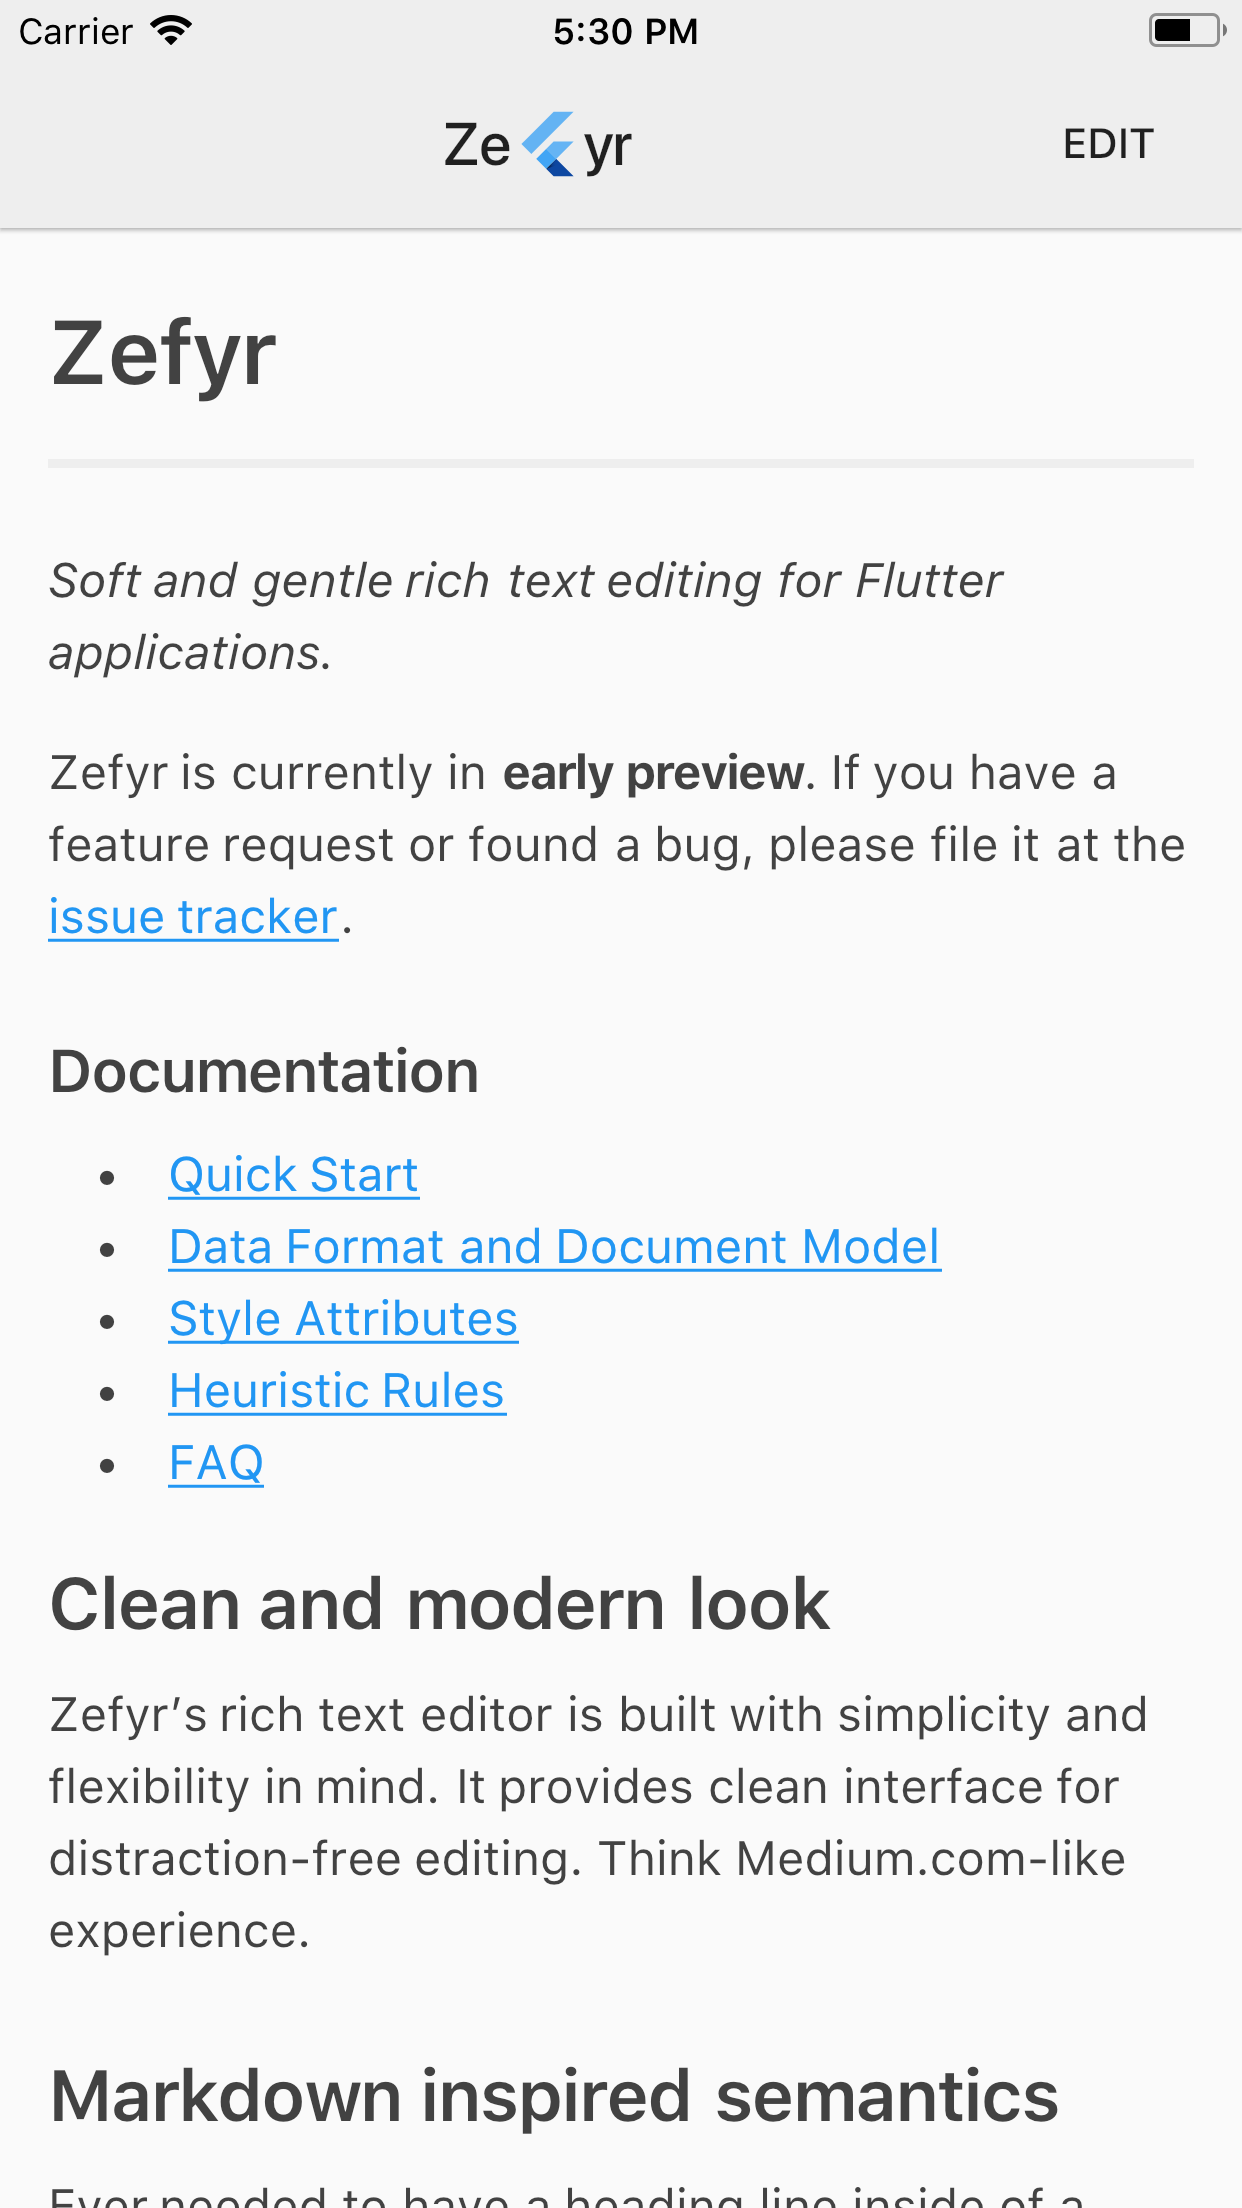
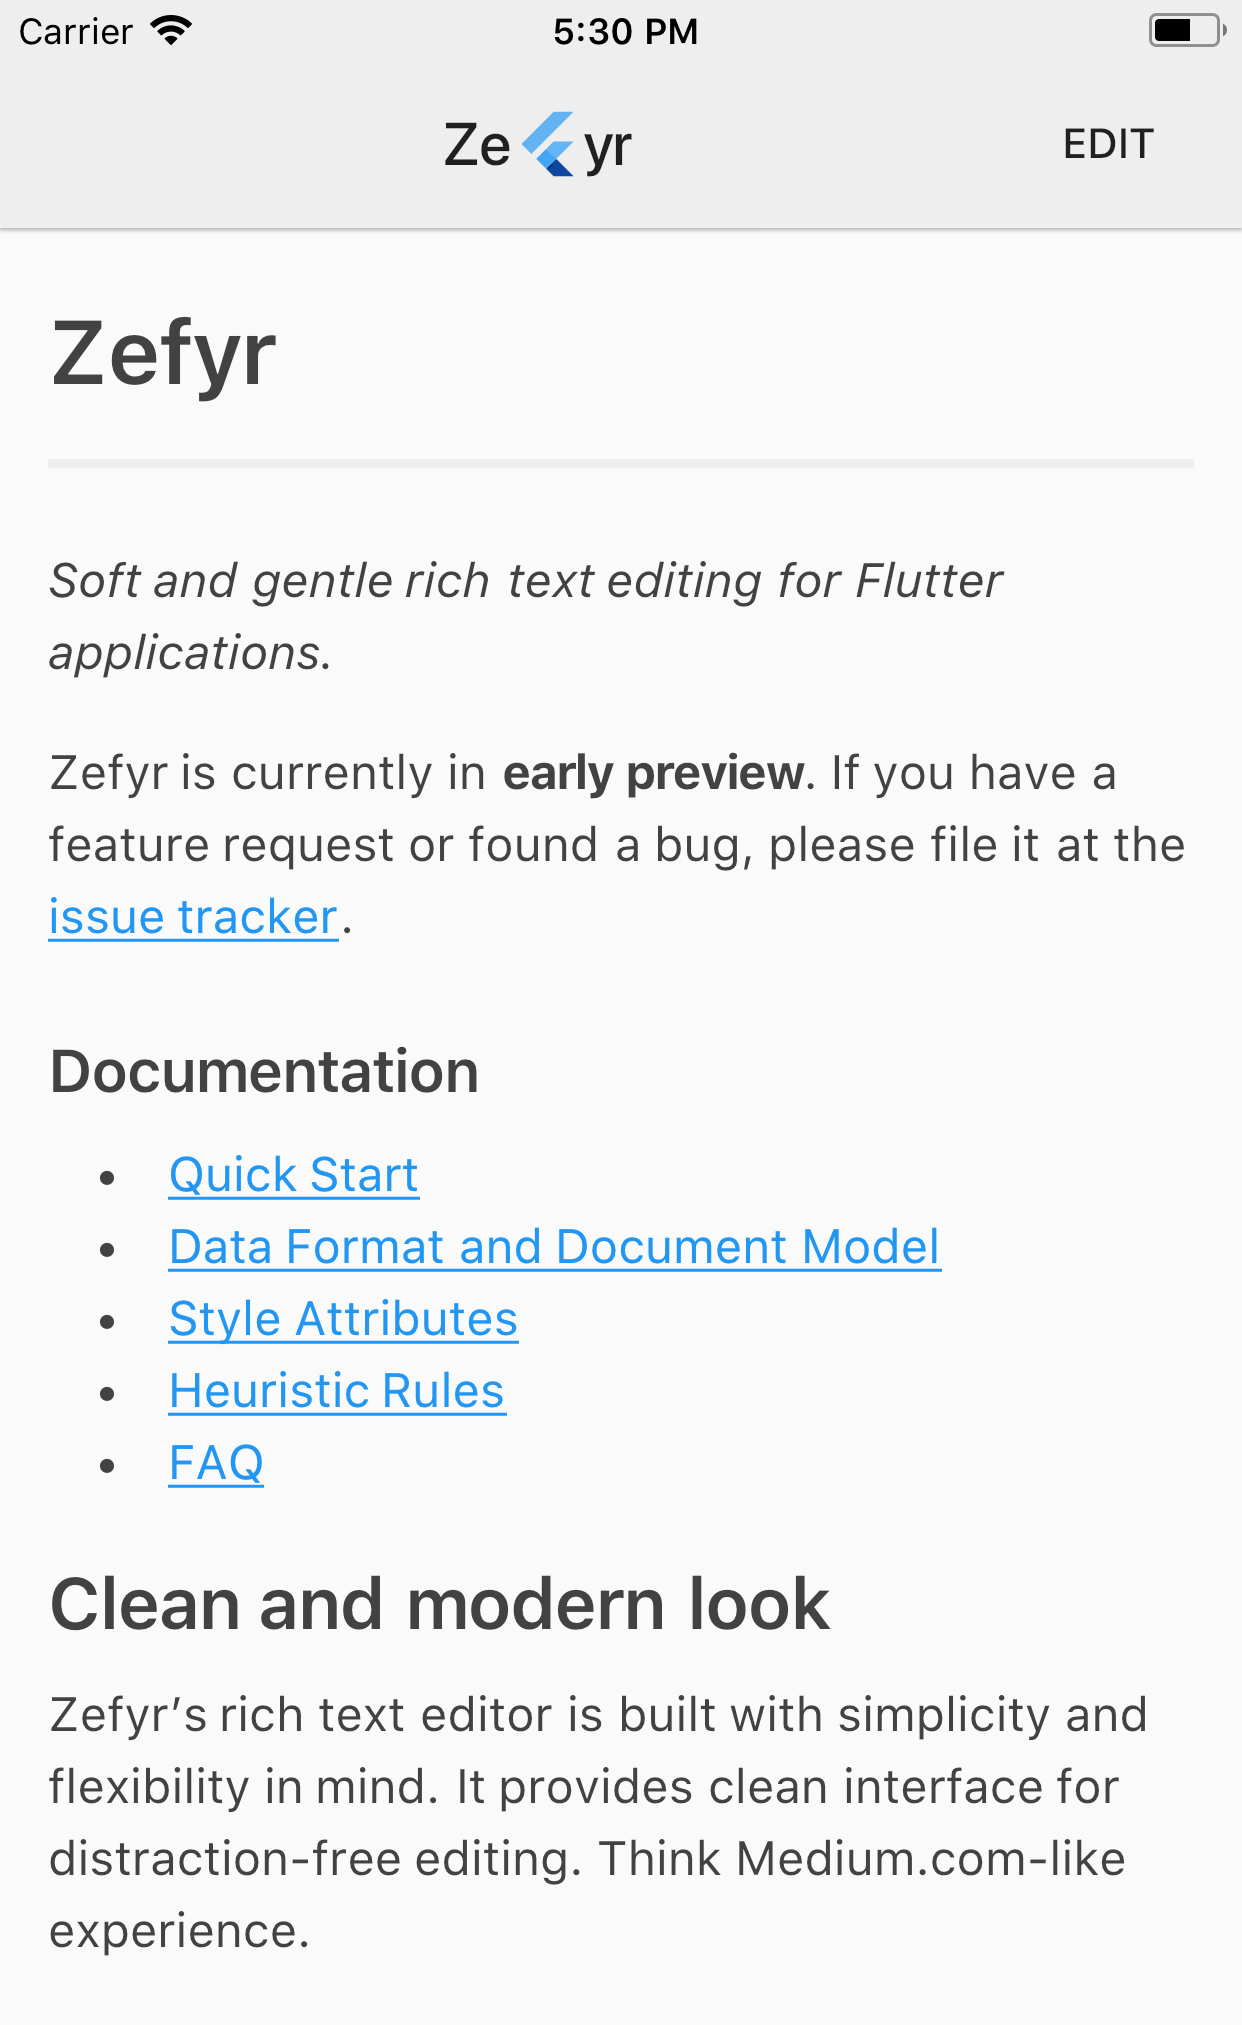
Cropped screenshot and updated example doc

diff --git a/packages/zefyr/example/lib/main.dart b/packages/zefyr/example/lib/main.dart
@@ -43,7 +43,11 @@ class MyHomePage extends StatefulWidget {
 }
 
 final doc =
-    r'[{"insert":"Zefyr"},{"insert":"\n","attributes":{"heading":1}},{"insert":"","attributes":{"embed":{"type":"hr"}}},{"insert":"\n"},{"insert":"Soft and gentle rich text editing for Flutter applications.","attributes":{"i":true}},{"insert":"\nZefyr is an "},{"insert":"early preview","attributes":{"b":true}},{"insert":" open source library.\nDocumentation"},{"insert":"\n","attributes":{"heading":3}},{"insert":"Quick Start"},{"insert":"\n","attributes":{"block":"ul"}},{"insert":"Data format and Document Model"},{"insert":"\n","attributes":{"block":"ul"}},{"insert":"Style attributes"},{"insert":"\n","attributes":{"block":"ul"}},{"insert":"Heuristic rules"},{"insert":"\n","attributes":{"block":"ul"}},{"insert":"Clean and modern look"},{"insert":"\n","attributes":{"heading":2}},{"insert":"Zefyr’s rich text editor is built with simplicity and flexibility in mind. It provides clean interface for distraction-free editing. Think Medium.com-like experience.\nimport ‘package:flutter/material.dart’;"},{"insert":"\n","attributes":{"block":"code"}},{"insert":"import ‘package:zefyr/zefyr.dart’;"},{"insert":"\n\n","attributes":{"block":"code"}},{"insert":"void main() {"},{"insert":"\n","attributes":{"block":"code"}},{"insert":" print(“Hello world!”);"},{"insert":"\n","attributes":{"block":"code"}},{"insert":"}"},{"insert":"\n","attributes":{"block":"code"}},{"insert":"\n\n\n"}]';
+    r'[{"insert":"Zefyr"},{"insert":"\n","attributes":{"heading":1}},{"insert":"","attributes":{"embed":{"type":"hr"}}},{"insert":"\n"},{"insert":"Soft and gentle rich text editing for Flutter applications.","attributes":{"i":true}},{"insert":"\nZefyr is currently in "},{"insert":"early preview","attributes":{"b":true}},{"insert":". If you have a feature request or found a bug, please file it at the "},{"insert":"issue tracker","attributes":{"a":"https://github.com/memspace/zefyr/issues"}},{"insert":'
+    r'".\nDocumentation"},{"insert":"\n","attributes":{"heading":3}},{"insert":"Quick Start","attributes":{"a":"https://github.com/memspace/zefyr/blob/master/doc/quick_start.md"}},{"insert":"\n","attributes":{"block":"ul"}},{"insert":"Data Format and Document Model","attributes":{"a":"https://github.com/memspace/zefyr/blob/master/doc/data_and_document.md"}},{"insert":"\n","attributes":{"block":"ul"}},{"insert":"Style Attributes","attributes":{"a":"https://github.com/memspace/zefyr/blob/master/doc/attr'
+    r'ibutes.md"}},{"insert":"\n","attributes":{"block":"ul"}},{"insert":"Heuristic Rules","attributes":{"a":"https://github.com/memspace/zefyr/blob/master/doc/heuristics.md"}},{"insert":"\n","attributes":{"block":"ul"}},{"insert":"FAQ","attributes":{"a":"https://github.com/memspace/zefyr/blob/master/doc/faq.md"}},{"insert":"\n","attributes":{"block":"ul"}},{"insert":"Clean and modern look"},{"insert":"\n","attributes":{"heading":2}},{"insert":"Zefyr’s rich text editor is built with simplicity and fle'
+    r'xibility in mind. It provides clean interface for distraction-free editing. Think Medium.com-like experience.\nMarkdown inspired semantics"},{"insert":"\n","attributes":{"heading":2}},{"insert":"Ever needed to have a heading line inside of a quote block, like this:\nI’m a Markdown heading"},{"insert":"\n","attributes":{"block":"quote","heading":3}},{"insert":"And I’m a regular paragraph"},{"insert":"\n","attributes":{"block":"quote"}},{"insert":"Code blocks"},{"insert":"\n","attributes":{"headin'
+    r'g":2}},{"insert":"Of course:\nimport ‘package:flutter/material.dart’;"},{"insert":"\n","attributes":{"block":"code"}},{"insert":"import ‘package:zefyr/zefyr.dart’;"},{"insert":"\n\n","attributes":{"block":"code"}},{"insert":"void main() {"},{"insert":"\n","attributes":{"block":"code"}},{"insert":" runApp(MyZefyrApp());"},{"insert":"\n","attributes":{"block":"code"}},{"insert":"}"},{"insert":"\n","attributes":{"block":"code"}},{"insert":"\n\n\n"}]';
 
 Delta getDelta() {
   return Delta.fromJson(json.decode(doc));
